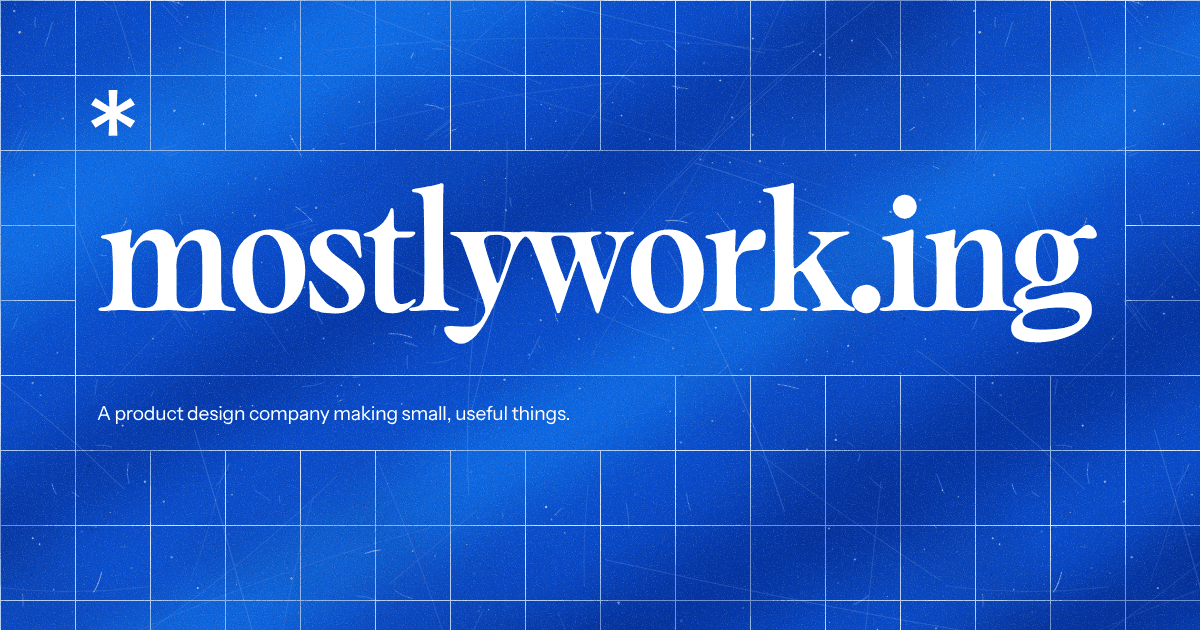
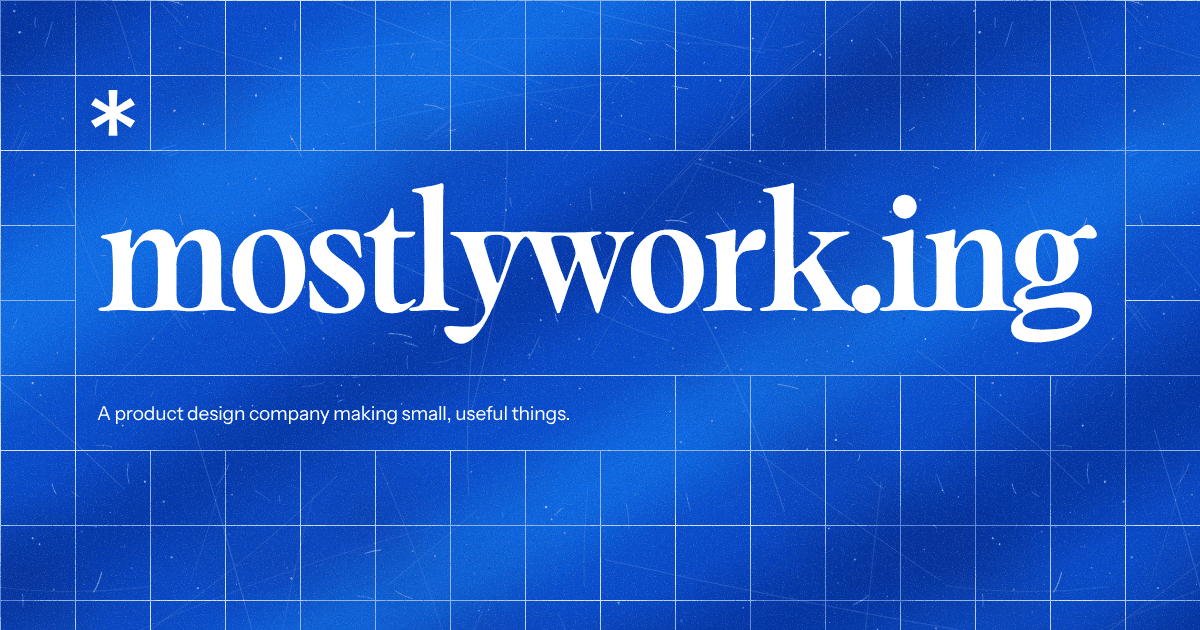
Make the light part of the scene
The bands of light and shade were fixed to the screen, so the mat slid
under them as the page scrolled, as if the light were on the glass. They
now belong to the mat: a page-sized light layer scrolls with everything
else and only drifts slowly in place.

The drifting layer sits in a frame that clips it, so its edges never show
and nothing scrolls sideways. Its pools of light now sit at fixed places
near the top of the mat, and its sway is halved, since a page-tall layer
swings further at its ends. White text still has at least 4.62:1 contrast
at the light's brightest. The home-screen icon now includes the light.

Claude-Session: https://claude.ai/code/session_017UFRXYQtUMif1BB6ZR5QC6

diff --git a/styles.css b/styles.css
@@ -116,20 +116,27 @@ body {
   font-kerning: normal;
 }
 
-/* Light through a window: soft bands of light and shade fall across the
-   mat and drift slowly, with a couple of pools of brighter light. They're
-   fixed to the screen, so the mat slides under them as the page scrolls.
-   They lie over the grid and the panels but under the text. At their
-   brightest, white text still has 4.5:1 contrast. */
-body::before {
-  content: "";
-  position: fixed;
-  inset: -10vmax;
+/* Light through a window falls across the mat: soft bands of light and
+   shade, with a couple of faint pools of brighter light. It's part of the
+   scene, so it scrolls with the mat, and it drifts slowly in place. It lies
+   over the grid and the panels but under the text. At its brightest, white
+   text still has 4.5:1 contrast. The frame clips the drifting layer so its
+   edges never show. */
+.light {
+  position: absolute;
+  inset: 0;
   z-index: 1;
+  overflow: hidden;
   pointer-events: none;
+}
+
+.light::before {
+  content: "";
+  position: absolute;
+  inset: -6vmax;
   background:
-    radial-gradient(42vmax 26vmax at 72% 28%, rgb(30 145 255 / 0.06), transparent 70%),
-    radial-gradient(36vmax 24vmax at 18% 78%, rgb(30 145 255 / 0.06), transparent 70%),
+    radial-gradient(42vmax 26vmax at 72% 32vmax, rgb(30 145 255 / 0.06), transparent 70%),
+    radial-gradient(36vmax 24vmax at 18% 92vmax, rgb(30 145 255 / 0.06), transparent 70%),
     repeating-linear-gradient(150deg,
         rgb(0 28 120 / 0.000) 1vmax,
         rgb(0 28 120 / 0.073) 3.25vmax,
@@ -683,7 +690,7 @@ main,
 
 @keyframes light {
   0% {
-    transform: translate3d(-1.5vmax, -2.6vmax, 0) rotate(-0.6deg);
+    transform: translate3d(-1.5vmax, -2.6vmax, 0) rotate(-0.3deg);
   }
 
   50% {
@@ -691,7 +698,7 @@ main,
   }
 
   100% {
-    transform: translate3d(1.5vmax, 2.6vmax, 0) rotate(0.6deg);
+    transform: translate3d(1.5vmax, 2.6vmax, 0) rotate(0.3deg);
   }
 }
 

diff --git a/404.html b/404.html
@@ -17,6 +17,7 @@
 <link rel="stylesheet" href="/styles.css">
 </head>
 <body>
+<div class="light" aria-hidden="true"></div>
 <header class="masthead">
   <a class="home panel" href="/" aria-label="mostlywork.ing"><svg class="logo" viewBox="0 0 482 502" aria-hidden="true" focusable="false"><path d="M192.482 0H289.518L278.383 250.545H203.617L192.482 0ZM192.482 501.089L203.617 250.545H278.383L289.518 501.089H192.482ZM0 162.257L49.3135 87.4918L259.294 221.116L221.911 279.178L0 162.257ZM482 162.257L260.089 279.178L222.706 221.116L432.686 87.4918L482 162.257ZM482 338.036L432.686 412.802L222.706 279.178L260.089 221.116L482 338.036ZM0 339.627L221.911 222.706L259.294 280.769L49.3135 414.393L0 339.627Z"/></svg></a>
 </header>

diff --git a/index.html b/index.html
@@ -29,6 +29,7 @@
 <link rel="stylesheet" href="/styles.css">
 </head>
 <body>
+<div class="light" aria-hidden="true"></div>
 <header class="masthead">
   <a class="home panel" href="/" aria-label="mostlywork.ing"><svg class="logo" viewBox="0 0 482 502" aria-hidden="true" focusable="false"><path d="M192.482 0H289.518L278.383 250.545H203.617L192.482 0ZM192.482 501.089L203.617 250.545H278.383L289.518 501.089H192.482ZM0 162.257L49.3135 87.4918L259.294 221.116L221.911 279.178L0 162.257ZM482 162.257L260.089 279.178L222.706 221.116L432.686 87.4918L482 162.257ZM482 338.036L432.686 412.802L222.706 279.178L260.089 221.116L482 338.036ZM0 339.627L221.911 222.706L259.294 280.769L49.3135 414.393L0 339.627Z"/></svg></a>
 </header>
